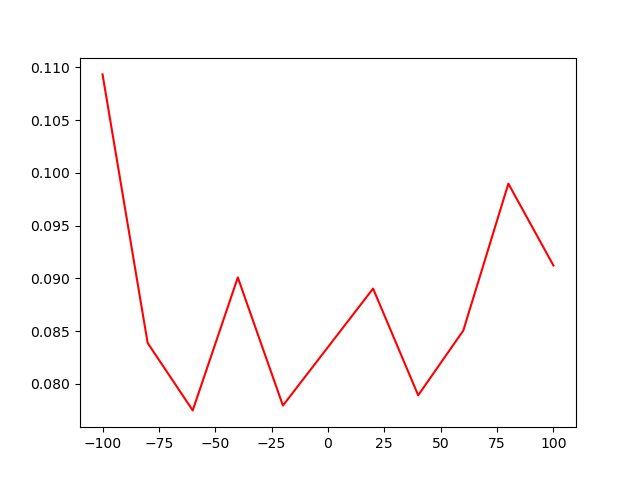
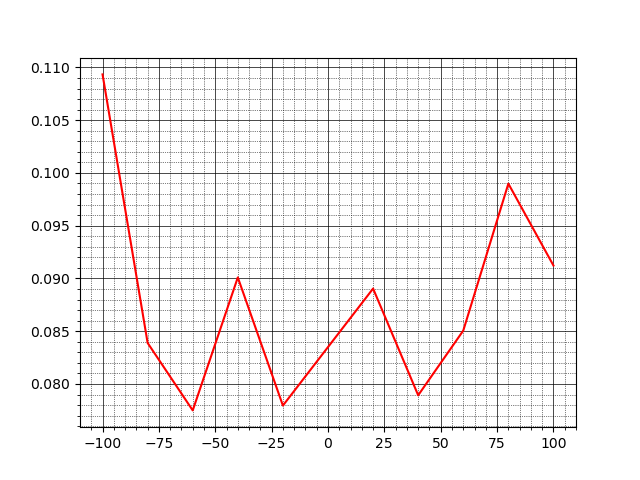
Grid lines

Changed region(s): [[0.125, 0.125, 0.9062, 0.9062]]

diff --git a/RobotLab1/SciLab/DrawThetaOfT.py b/RobotLab1/SciLab/DrawThetaOfT.py
@@ -10,7 +10,7 @@ def ReadFile(name):
 		time.append(v[1])
 	return [values, time]
 
-for idx in range(20, 101, 20):
+for idx in range(-100, -19, 20):
 	sim = ReadFile('..\\Data\\Sim' + str(idx) + '.txt')
 	data = ReadFile('..\\Data\\log' + str(idx) + '.txt')
 	model = ReadFile('..\\Data\\Model' + str(idx) + '.txt')
@@ -21,5 +21,10 @@ for idx in range(20, 101, 20):
 	plt.plot(data[1], data[0], '-.b', alpha=0.5, linewidth=2)
 	plt.plot(model[1], model[0], ':g', alpha=0.8, linewidth=4)
 	plt.plot(sim[1], sim[0], '--r')
+
+
+plt.minorticks_on()
+plt.grid(which="major", color="k", linewidth=0.5)
+plt.grid(which="minor", color="k", linestyle=":", linewidth=0.5)
 
 plt.show()

diff --git a/RobotLab1/SciLab/DrawPlot.py b/RobotLab1/SciLab/DrawPlot.py
@@ -10,8 +10,12 @@ def ReadFile(name):
 		time.append(v[1])
 	return [values, time]
 
-data = ReadFile('..\\Data\\Mst.txt')
+data = ReadFile('..\\Data\\Tm.txt')
 
 plt.plot(data[1], data[0], '-r')
+
+plt.minorticks_on()
+plt.grid(which="major", color="k", linewidth=0.5)
+plt.grid(which="minor", color="k", linestyle=":", linewidth=0.5)
 
 plt.show()
